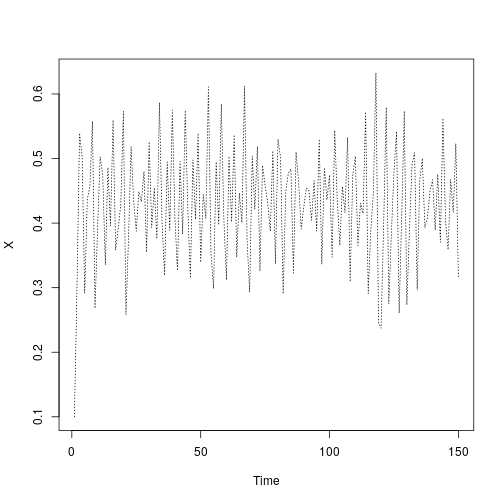
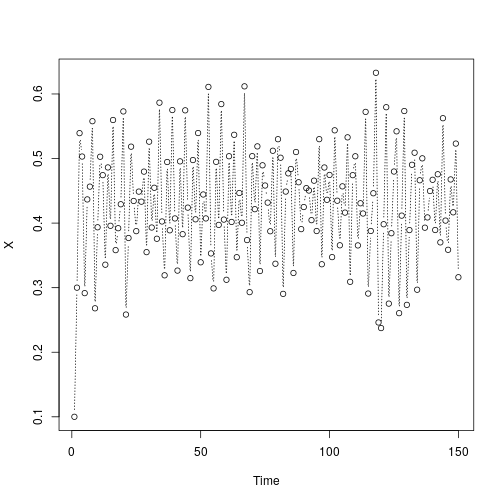
Atualizando dia 2 e ratio 16:9

diff --git a/docs/Xaringans/Day2_Simplex_projection.html b/docs/Xaringans/Day2_Simplex_projection.html
@@ -23,7 +23,7 @@ layout: true
 
 
 background-image:url("logo-IFT.png")
-background-position: 5% 100%
+background-position: 0% 100%
 background-size: 10%
 
 ---
@@ -71,25 +71,25 @@ class: left
 --
 Uma forma de dar uma previsão de curto prazo para uma série temporal é a através de uma projeção simplex, dada uma série temporal:
 --
-&lt;img src="img/Rplot23.png" width="75%" style="display: block; margin: auto;" /&gt;
+&lt;img src="img/Rplot23.png" width="700" height="475" style="display: block; margin: auto;" /&gt;
 ---
 ## Projeção Simplex
 
 --
 Procuramos o mesmo padrão de logo antes do fim da séries em outros momentos da série, com isso temos:
-&lt;img src="img/Rplot24.png" width="75%" style="display: block; margin: auto;" /&gt;
+&lt;img src="img/Rplot24.png" width="700" height="475" style="display: block; margin: auto;" /&gt;
 ---
 ## Projeção Simplex
 
 --
 Com esses padrões olhamos os pontos seguintes, eles nos darão uma ideia do que acontece após esse padrão:
-&lt;img src="img/Rplot25.png" width="75%" style="display: block; margin: auto;" /&gt;
+&lt;img src="img/Rplot25.png" width="700" height="475" style="display: block; margin: auto;" /&gt;
 ---
 ## Projeção Simplex
 
 --
 Com esses padrões olhamos os pontos seguintes, eles nos darão uma ideia do que acontece após esse padrão:
-&lt;img src="img/Rplot26.png" width="75%" style="display: block; margin: auto;" /&gt;
+&lt;img src="img/Rplot26.png" width="700" height="475" style="display: block; margin: auto;" /&gt;
 ---
 ## Projeção Simplex
 
@@ -106,7 +106,7 @@ Ou seja nossa estimativa `\(\hat{X}\)` será uma média ponderada dos pontos `\(
 
 --
 Outra forma de visualizar a projeção **Simplex** é através da seguinte ideia, no espaço-de-fase:
-&lt;img src="img/simplexextractedf.jpeg" width="75%" style="display: block; margin: auto;" /&gt;
+&lt;img src="img/simplexextractedf.jpeg" width="700" height="475" style="display: block; margin: auto;" /&gt;
 ---
 ## Seleção de *Embedding*
 
@@ -115,7 +115,7 @@ Para selecionar a dimensão adequada ao **Embedding** contabilizamos a correlaç
 
 $$
 `\begin{equation*}
-  \rho = \rho_{X,\hat{X}} = \frac{\mathrm{cov}(X(t),\hat{X})}{\sigma_{X}\sigma_{\hat{X}}} \label{rhosimplex}
+  \rho = \rho_{X,\hat{X}} = \frac{\mathrm{cov}(X,\hat{X})}{\sigma_{X}\sigma_{\hat{X}}} \label{rhosimplex}
 \end{equation*}`
 $$
 Onde `\(\rho\)` é um valor entre 0 e 1, `\(\mathrm{cov}\)` é a covariância e `\(\sigma\)`s são os desvios padrão
@@ -139,6 +139,15 @@ for(i in 3:150){
 *   Y[i] &lt;- 3.78*Y[i-1] - 3.78*Y[i-1]^2
 }
 ```
+--
+$$
+`\begin{equation*}
+  X_i = 3.77X_{i-1} - 3.77X_{i-1}^2 - 0.85Y_{i-1}X_{i-1} - 0.5X_{i-2} \\
+  Y_i = 3.78Y_{i-1} - 3.78Y_{i-1}^2
+  \label{eq2sp}
+\end{equation*}`
+$$
+
 ---
 ## Seleção de *Embedding*
 
@@ -146,37 +155,48 @@ for(i in 3:150){
 plotando a série:
 
 ```r
-plot(X, xlab="Time", ylab="X", type="l", lty=3)
+plot(X, xlab="Time", ylab="X", type="b", lty=3)
 ```
 
-&lt;img src="Day2_Simplex_projection_files/figure-html/unnamed-chunk-7-1.png" width="50%" /&gt;
+&lt;img src="Day2_Simplex_projection_files/figure-html/unnamed-chunk-7-1.png" width="700" height="400" style="display: block; margin: auto;" /&gt;
 ---
 ## Seleção de *Embedding*
 
 Testamos o `\(\rho\)` para diferentes dimensões de **embedding**:
+.pull-left[
 
 ```r
 library(rEDM)
 *find.emb &lt;- simplex(time_series = X, E = 1:10)
-head(find.emb)
+```
+]
+
+.pull-right[
+
+```r
+head(find.emb$rho, 6)
 ```
 
 ```
-##   E tau tp nn num_pred       rho        mae       rmse      perc        p_val const_pred_num_pred const_pred_rho
-## 1 1  -1  1  2      150 0.2000798 0.07909574  0.1031616 0.9933333 0.0064962628                 150     -0.3307049
-## 2 2  -1  1  3      149 0.7434791 0.04234975 0.05900197 0.9932886 0.0000000001                 149     -0.3883729
-## 3 3  -1  1  4      148 0.9220358 0.02387621 0.03445819 0.9932432 0.0000000001                 148      -0.380579
-## 4 4  -1  1  5      147 0.9035336 0.02466196 0.03766469 0.9931973 0.0000000001                 147     -0.3904401
-## 5 5  -1  1  6      146 0.9004385 0.02732305 0.03900681 0.9931507 0.0000000001                 146        -0.3857
-## 6 6  -1  1  7      145 0.8682037 0.03212827 0.04410303 0.9931034 0.0000000001                 145     -0.3886794
-##   const_pred_mae const_pred_rmse const_pred_perc const_p_val
-## 1      0.1242725        0.145133       0.9933333   0.9999871
-## 2      0.1237608       0.1446916       0.9932886   0.9999997
-## 3       0.122975       0.1438352       0.9932432   0.9999995
-## 4      0.1235692       0.1442959       0.9931973   0.9999997
-## 5      0.1229624       0.1437227       0.9931507   0.9999996
-## 6      0.1228083       0.1437128       0.9931034   0.9999996
+## $E1
+## [1] 0.2000798
+## 
+## $E2
+## [1] 0.7434791
+## 
+## $E3
+## [1] 0.9220358
+## 
+## $E4
+## [1] 0.9035336
+## 
+## $E5
+## [1] 0.9004385
+## 
+## $E6
+## [1] 0.8682037
 ```
+]
 ---
 ## Seleção de *Embedding*
 .pull-left[
@@ -196,12 +216,7 @@ points(y = find.emb$rho[which.max(find.emb$rho)],
 ]
 
 .pull-right[
-
-```
-## Warning in plot.xy(xy.coords(x, y), type = type, ...): "size" não é um parâmetro gráfico
-```
-
-![](Day2_Simplex_projection_files/figure-html/unnamed-chunk-10-1.png)&lt;!-- --&gt;
+![](Day2_Simplex_projection_files/figure-html/unnamed-chunk-11-1.png)&lt;!-- --&gt;
 ]
 ---
 ## Predições
@@ -242,11 +257,11 @@ Plotando a predição
 .pull-left[
 
 ```r
-plot(Predictions ~ Index, 
+*plot(Predictions ~ Index,
      data = fits, type = "l", 
      col = "blue", lwd=3,
      xlab="Time", ylab="X")
-lines(Observations ~ Index, 
+*lines(Observations ~ Index,
       data = fits, 
       col=grey.colors(1, alpha=0.25), 
       lwd = 6)
@@ -259,14 +274,14 @@ legend("topright",
 ]
 
 .pull-right[
-![](Day2_Simplex_projection_files/figure-html/unnamed-chunk-14-1.png)&lt;!-- --&gt;
+&lt;img src="Day2_Simplex_projection_files/figure-html/unnamed-chunk-15-1.png" width="500" height="400" /&gt;
 ]
 ---
 ## Recapitulando
 
-* Com a a projeção **Simplex** podemos determinar a dimensão de **embedding** para reconstruir a dinâmica
+* Com a projeção **Simplex** podemos determinar a dimensão de **embedding** para reconstruir a dinâmica
 
-* A dimensão será o máximo da correlação entre o predito e o observado, a predição será feita com uma projeçaõ **Simplex**
+* A dimensão será o máximo da correlação entre o predito e o observado, a predição será feita com uma projeção **Simplex**
 
 * Com isso já podemos dar boas predições para o sistema
 
@@ -283,9 +298,9 @@ legend("topright",
 
 * Canal do [Slack](https://app.slack.com/client/T01BJETR8S3/C01CXH8H9KM) para discussão, dúvidas, etc.
 
-* Tutorial Hands-on Takens Theorem [Extra](https://rafalopespx.github.io/WorkshopEDM/Hands-on_Takens.html)
+* Tutorial Hands-on Takens Theorem [Day 1](https://rafalopespx.github.io/WorkshopEDM/Hands-on_Takens.html)
 
-* Tutorial Simplex projection made it simple [Extra](https://rafalopespx.github.io/WorkshopEDM/simplex.html)
+* Tutorial Simplex projection made it simple [Day 2](https://rafalopespx.github.io/WorkshopEDM/simplex.html)
     </textarea>
 <style data-target="print-only">@media screen {.remark-slide-container{display:block;}.remark-slide-scaler{box-shadow:none;}}</style>
 <script src="https://remarkjs.com/downloads/remark-latest.min.js"></script>

diff --git a/docs/Xaringans/Day1_Takens_Theorem.html b/docs/Xaringans/Day1_Takens_Theorem.html
@@ -23,7 +23,7 @@ layout: true
 
 
 background-image:url("logo-IFT.png")
-background-position: 5% 100%
+background-position: 0% 100%
 background-size: 10%
 
 ---
